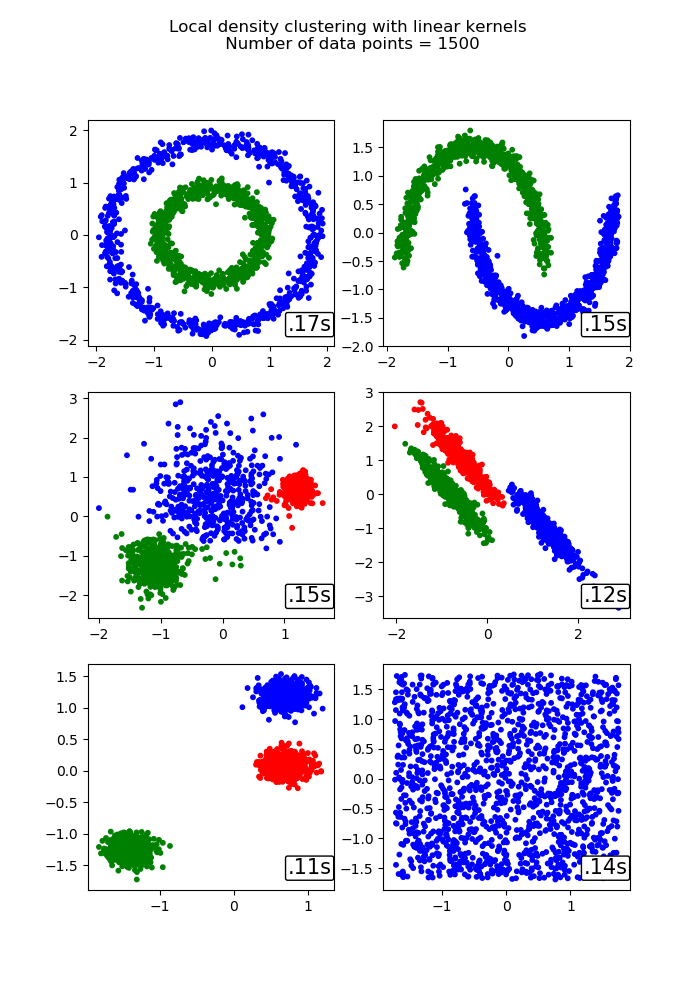
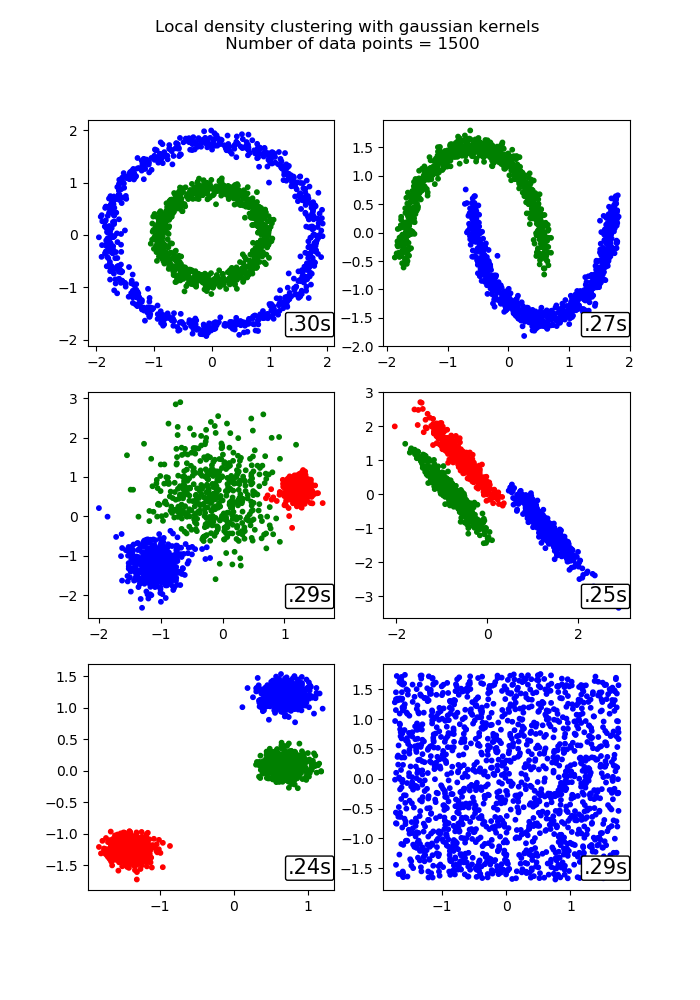
Accurate boxing of minimum and maximum bounds

diff --git a/fdc/density_estimation.py b/fdc/density_estimation.py
@@ -41,6 +41,9 @@ class KDE():
     
     def fit(self, X):
         """Fit kernel model to X"""
+        if X.shape[1] > 8 :
+            print('Careful, you are trying to do density estimation for data in a D > 8 dimensional space\n ... you are warned !')
+
         if self.bandwidth is None:
             self.bandwidth = self.find_optimal_bandwidth(X)
         else:
@@ -50,7 +53,6 @@ class KDE():
                 atol=self.atol, rtol=self.rtol, 
                 breadth_first=True, leaf_size=40
             )
-        
         self.kde.fit(X)
         return self
 
@@ -69,7 +71,7 @@ class KDE():
         """
         return self.kde.score_samples(X)
     
-    def bandwidth_estimate(self, X):
+    def bandwidth_estimate(self, X_train, X_test):
         """Gives a rough estimate of the optimal bandwidth (based on the notion of some effective neigborhood)
         
         Return
@@ -77,51 +79,62 @@ class KDE():
         bandwidth estimate, minimum possible value : tuple, shape(2)
         """
         if self.nn_dist is None:
-            nn = NearestNeighbors(n_neighbors=2,algorithm='kd_tree')
-            nn.fit(X)
-            nn_dist, _ = nn.kneighbors(X, n_neighbors=2, return_distance=True)
+            nn = NearestNeighbors(n_neighbors=2, algorithm='kd_tree')
+            nn.fit(X_train)
+            nn_dist, _ = nn.kneighbors(X_test, n_neighbors=2, return_distance=True)
         else:
             nn_dist = self.nn_dist
 
-        h_min = np.mean(nn_dist[:,1])
-        h_max = 5*h_min # heuristic bound !! careful !!
+        dim = X_train.shape[1]
 
-        return h_max, h_min
+        # Computation of minimum bound
+        # This can be computed by taking the limit h -> 0 and making a saddle-point approx.
+        mean_nn2_dist = np.mean(nn_dist[:,1]*nn_dist[:,1])
+        h_min = np.sqrt(mean_nn2_dist/dim)
+        
+        idx_1 = np.random.choice(np.arange(len(X_train)), size=min([1000, len(X_train)]), replace=False)
+        idx_2 = np.random.choice(np.arange(len(X_test)), size=min([1000, len(X_test)]), replace=False)
+
+        max_size = min([len(idx_1),len(idx_2)])
+
+        tmp = np.linalg.norm(X_train[idx_1[:max_size]] - X_test[idx_2[:max_size]], axis=1)
+        
+        h_max = np.sqrt(np.mean(tmp*tmp)/dim)
+        h_est = 10*h_min 
+        return h_est, h_min, h_max
     
     def find_optimal_bandwidth(self, X):
         """Performs maximum likelihood estimation on a test set of the density model fitted on a training set
         """
         from scipy.optimize import fminbound
-
-        hest, hmin = self.bandwidth_estimate(X)
-        print("[kde] Minimum bound = %.4f \t Rough estimate of h = %.4f"%(hmin, hest))
-
         X_train, X_test = train_test_split(X, test_size = self.test_ratio_size)
         args = (X_train, X_test)
 
-        # We are trying to find reasonable tight bounds (hmin,1.5*hest) to bracket the error function minima
-        if self.xtol > hmin:
-            tmp = round_float(hmin)
-            print('[kde] Bandwidth tolerance (xtol) greater than minimum bound, adjusting xtol: %.5f -> %.5f'%(self.xtol, tmp))
-            self.xtol = tmp
+        hest, hmin, hmax = self.bandwidth_estimate(X_train, X_test)
 
-        h_optimal, score_opt, _, niter = fminbound(self.log_likelihood_test_set, hmin, 1.5*hest, args, maxfun=100, xtol=self.xtol, full_output=True)
+        print("[kde] Minimum bound = %.4f \t Rough estimate of h = %.4f \t Maximum bound = %.4f"%(hmin, hest, hmax))
+
+        # We are trying to find reasonable tight bounds (hmin, 4.0*hest) to bracket the error function minima
+        # Would be nice to have some hard accurate bounds
+        self.xtol = round_float(hmin)
+        print('[kde] Bandwidth tolerance (xtol) set to precision of minimum bound : %.5f '%(self.xtol))
+
+        h_optimal, score_opt, _, niter = fminbound(self.log_likelihood_test_set, hmin, hmax, args, maxfun=100, xtol=self.xtol, full_output=True)
         
         print("[kde] Found log-likelihood minima in %i evaluations, h = %.5f"%(niter, h_optimal))
         
-        if self.extreme_dist is False: # in the case of distribution with extreme variances in density, these bounds will fail ...
-            assert abs(h_optimal - 1.5*hest) > 1e-4, "Upper boundary reached for bandwidth"
+        if self.extreme_dist is False: # These bounds should always be satisfied ...
+            assert abs(h_optimal - hmax) > 1e-4, "Upper boundary reached for bandwidth"
             assert abs(h_optimal - hmin) > 1e-4, "Lower boundary reached for bandwidth"
 
         return h_optimal
-    
-    
+     
     def log_likelihood_test_set(self, bandwidth, X_train, X_test):
         """Fit the kde model on the training set given some bandwidth and evaluates the log-likelihood of the test set
         """
         self.kde = KernelDensity(bandwidth=bandwidth, algorithm='kd_tree', atol=self.atol, rtol=self.rtol,leaf_size=40, kernel=self.kernel)
         self.kde.fit(X_train) 
-        return -self.kde.score(X_test)
+        return -self.kde.score(X_test[:10000]) # this should be accurate enough !
 
 def round_float(x):
     """ Rounds a float to it's first significant digit

diff --git a/example/example2.py b/example/example2.py
@@ -67,7 +67,7 @@ for i_dataset, dataset in enumerate(datasets):
 
     # create clustering estimators
 
-    model = FDC(kernel='linear')
+    model = FDC(eta=0.6)
 
     s=time.time()
 
@@ -88,7 +88,7 @@ for i_dataset, dataset in enumerate(datasets):
 
     plot_num+=1
 
-plt.suptitle("Local density clustering with linear kernels \n Number of data points = %i"%(n_samples))
+plt.suptitle("Local density clustering with %s kernels \n Number of data points = %i"%(model.kernel,n_samples))
 
 plt.savefig("sklearn_datasets.png")
 fig.tight_layout(rect=[0, 0.03, 1, 0.95])

diff --git a/example/example.py b/example/example.py
@@ -25,7 +25,7 @@ X, y = make_blobs(10000, 2, n_true_center) # Generating random gaussian mixture
 X = StandardScaler().fit_transform(X) # always normalize your data :) 
 
 # set eta=0.0 if you have excellent density profile fit (lots of data say)
-model = FDC(eta = 0.)
+model = FDC(eta = 0.01)
 
 model.fit(X) # performing the clustering
 
